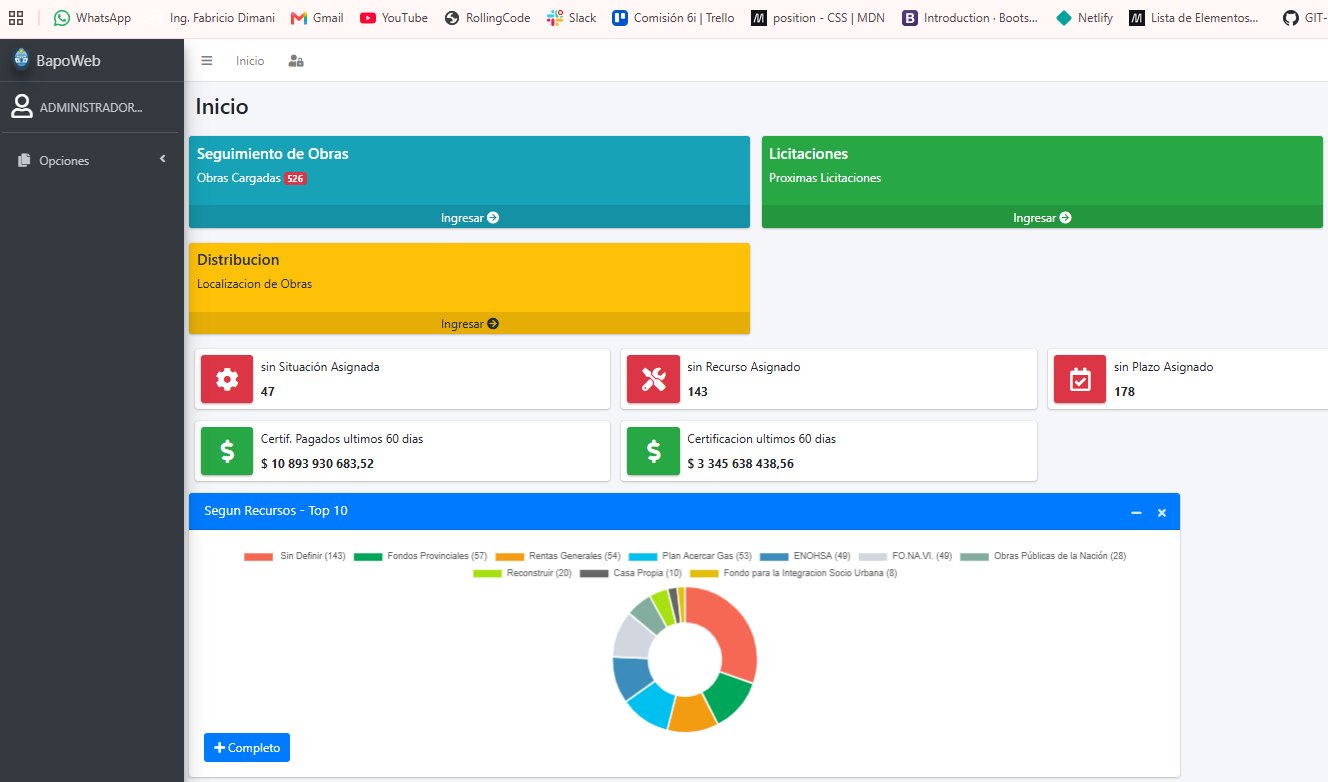
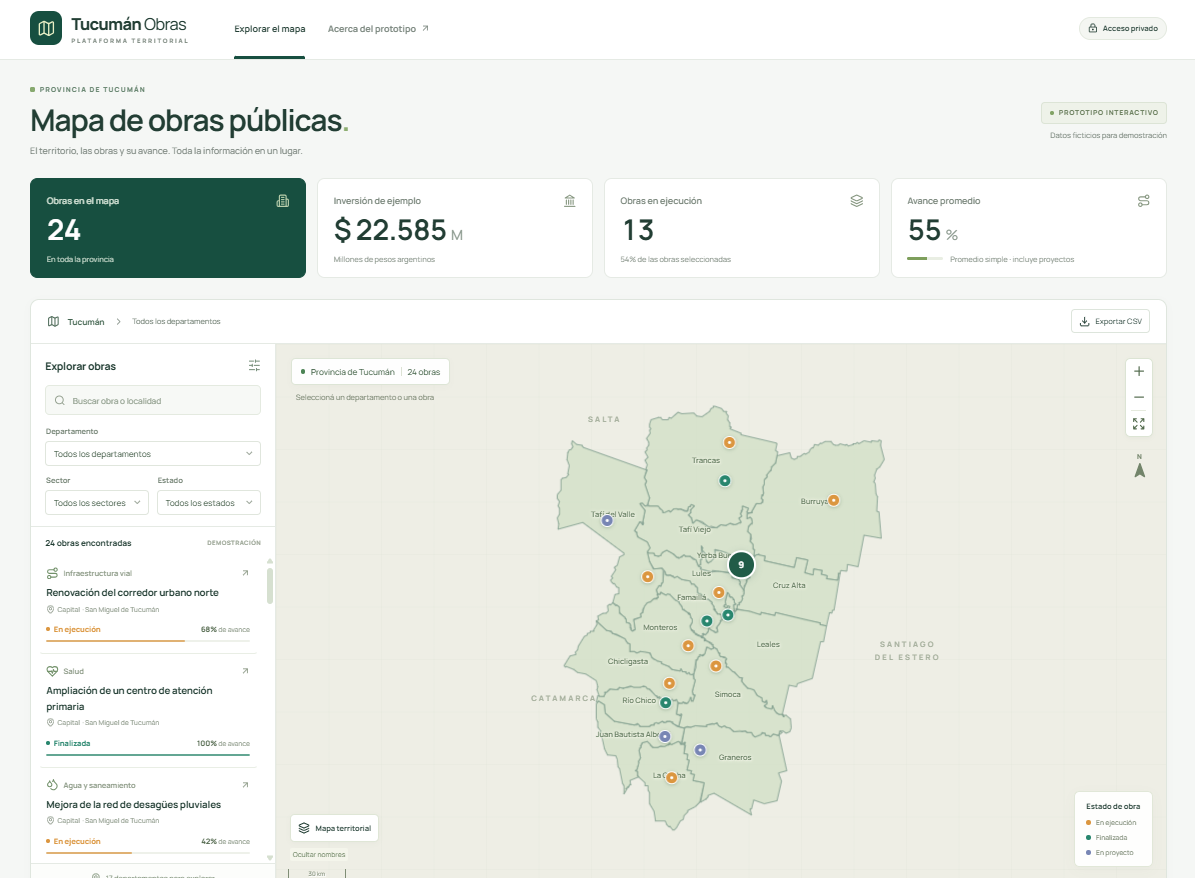
Actualiza DISTRI360, Obras Publicas y ARCA

diff --git a/src/App.jsx b/src/App.jsx
@@ -182,7 +182,7 @@ const services = [
   {
     icon: Handshake,
     title: 'Ventas y gestión comercial',
-    text: 'Clientes, presupuestos, pedidos, cobranzas y objetivos de venta.',
+    text: 'Clientes, presupuestos, pedidos, cobranzas e integración con ARCA para facturación electrónica.',
     accent: 'orange',
   },
   {
@@ -234,6 +234,12 @@ function Benefits() {
           </article>
         ))}
       </div>
+      <aside className="arcaHighlight" aria-label="Integración con ARCA">
+        <span className="arcaHighlightIcon" aria-hidden="true"><FileText size={30} /></span>
+        <div><h3>Integración con ARCA · Facturación electrónica</h3>
+          <p>Conectamos la facturación electrónica con las ventas y la gestión administrativa de tu empresa.</p></div>
+        <a href="#consulta">Consultar por esta integración →</a>
+      </aside>
     </section>
   )
 }
@@ -285,14 +291,14 @@ const cases = [
   {
     name: 'BAPO',
     type: 'Obras públicas',
-    text: 'Sistema de gestión de obras públicas: seguimiento de obras, licitaciones, distribución, certificaciones, redetrminación de precios y tableros de consulta.',
+    text: 'Gestión de obras públicas: seguimiento de obras, licitaciones, certificaciones, redeterminación de precios y consultas. La imagen muestra el prototipo de mapa territorial con datos ficticios.',
     className: 'caseBapo',
     visual: '🏗',
   },
   {
-    name: 'Distripollo',
+    name: 'DISTRI360',
     type: 'Preventa, distribución y entrega',
-    text: 'Sistema de gestión y trazabilidad de pedidos: preventa, preparación, asignación de camiones, entregas, regreso al depósito y cuentas corrientes.',
+    text: 'Sistema integral de distribución: compras, ventas, stock, precios, preparación de pedidos, camiones, entregas y cuentas corrientes. Integración con ARCA para facturación electrónica.',
     className: 'caseDistribucion',
     visual: '🚚',
   },
@@ -306,7 +312,7 @@ function Cases() {
       <div className="caseGrid">
         {cases.map((item) => (
           <article className="caseCard" key={item.name}>
-            <div className={`caseImage ${item.className}`}>
+            <div className={`caseImage ${item.className}`} role={item.className === 'caseBapo' || item.className === 'caseDistribucion' ? 'img' : undefined} aria-label={item.className === 'caseBapo' ? 'Prototipo del mapa de obras públicas de Tucumán, con datos ficticios' : item.className === 'caseDistribucion' ? 'Pantalla de ingreso a DISTRI360' : undefined}>
               <div className="caseVisualIcon" aria-hidden="true">{item.visual}</div>
               <span>{item.type}</span>
             </div>

diff --git a/src/index.css b/src/index.css
@@ -2808,3 +2808,51 @@ main { background: #ffffff; }
     flex-basis: 185px !important;
   }
 }
+
+/* Capturas de los proyectos: proporción completa y sin recortar el mapa. */
+.caseImage.caseBapo {
+  height: auto !important;
+  min-height: 0 !important;
+  aspect-ratio: 1195 / 878;
+  background-size: contain !important;
+  background-color: #f5f8f4 !important;
+}
+.caseImage.caseDistribucion {
+  height: auto !important;
+  min-height: 0 !important;
+  aspect-ratio: 1172 / 514;
+  background-size: contain !important;
+  background-color: #fff !important;
+}
+.caseCard .caseImage.caseBapo span,
+.caseCard .caseImage.caseDistribucion span {
+  display: none !important;
+}
+.arcaHighlight {
+  display: flex;
+  align-items: center;
+  gap: 22px;
+  margin-top: 32px;
+  padding: 26px 28px;
+  border: 1px solid #c4e5f3;
+  border-radius: 20px;
+  background: linear-gradient(110deg, #eef7ff, #f3fcfc);
+  text-align: left;
+}
+.arcaHighlightIcon {
+  display: grid;
+  place-items: center;
+  flex: 0 0 58px;
+  height: 58px;
+  color: #087cbd;
+  background: #dceffa;
+  border-radius: 15px;
+}
+.arcaHighlight h3 { margin: 0 0 8px; color: #062b5f; font-size: 21px; }
+.arcaHighlight p { margin: 0; color: #455c76; line-height: 1.6; }
+.arcaHighlight a { margin-left: auto; color: #075a9e; font-weight: 800; flex: 0 0 210px; }
+@media (max-width: 820px) {
+  .arcaHighlight { flex-wrap: wrap; padding: 22px; gap: 16px; }
+  .arcaHighlight > div { flex: 1 1 200px; }
+  .arcaHighlight a { margin-left: 0; flex-basis: 100%; }
+}
